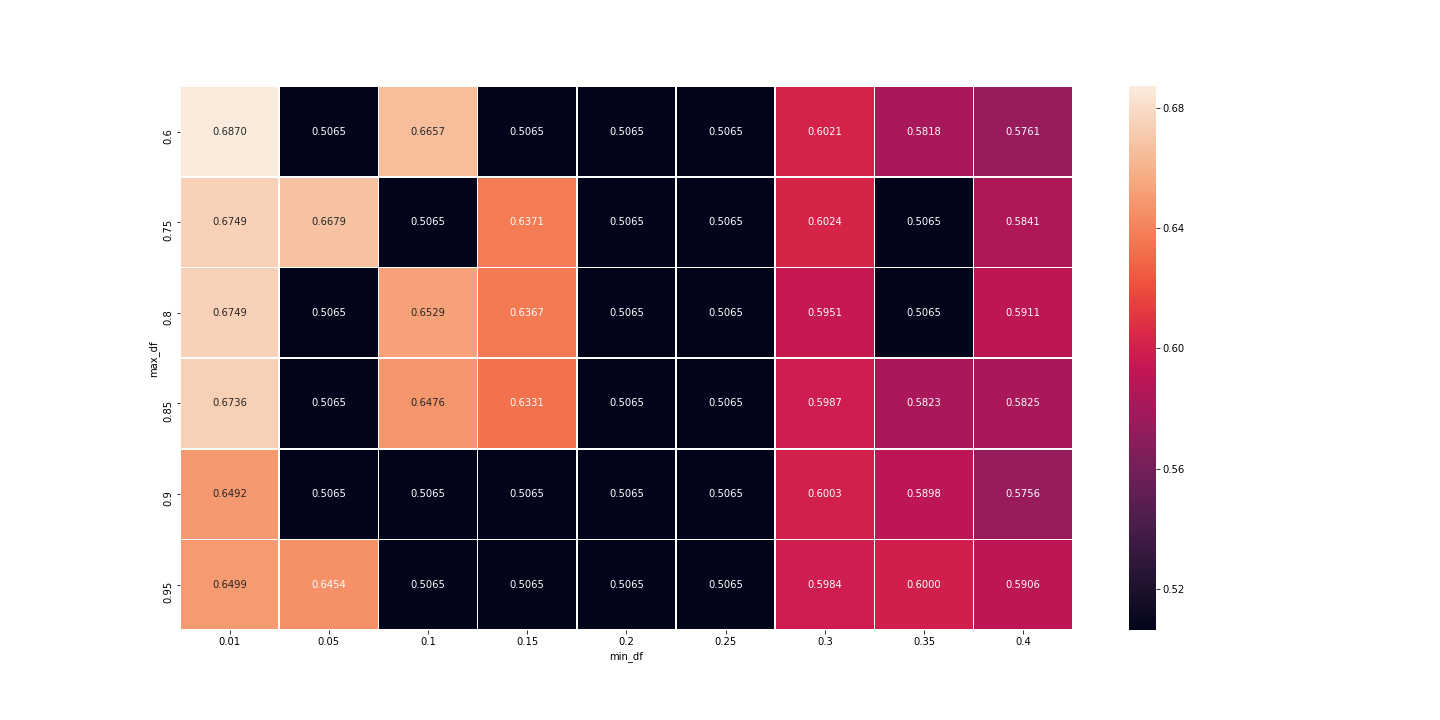
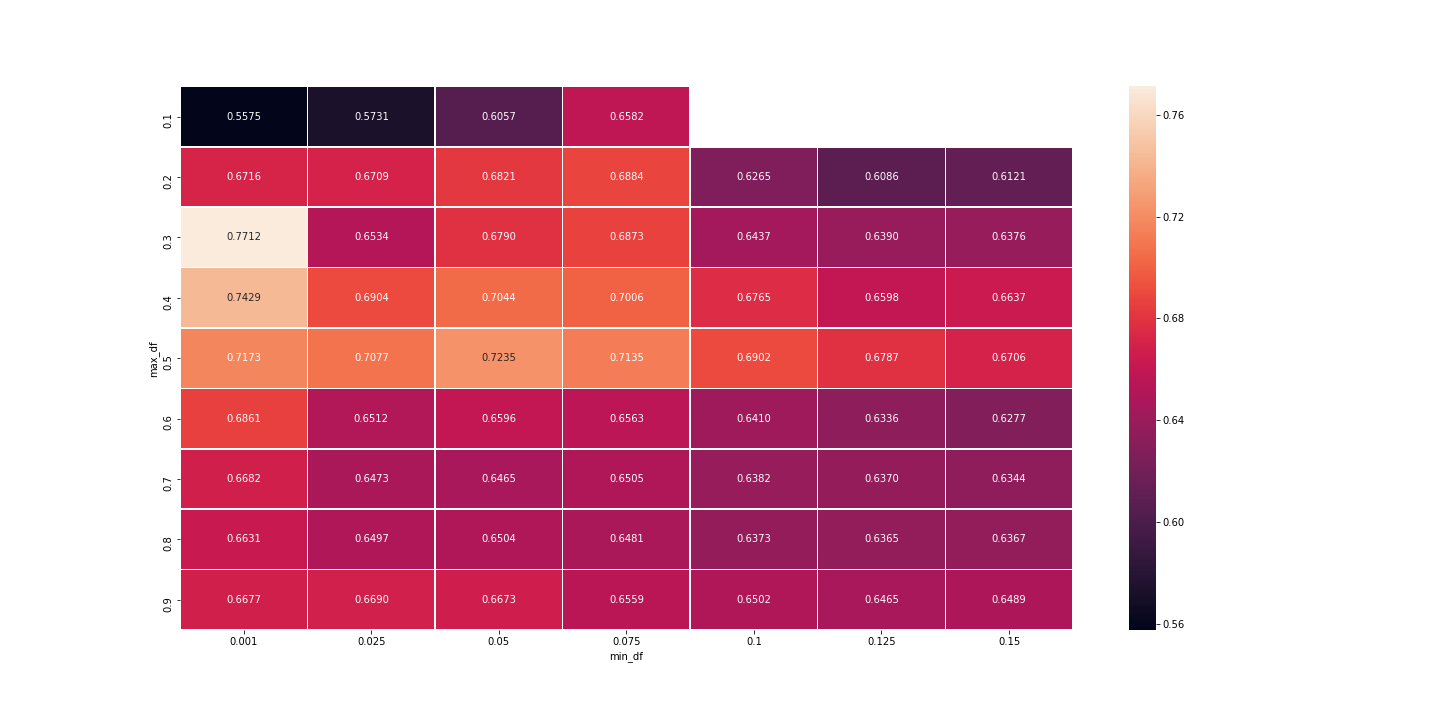
Experimentacion minmaxdf

diff --git a/notebooks/optimizar-max-df-min-df.py b/notebooks/optimizar-max-df-min-df.py
@@ -2,9 +2,7 @@
 
 '''
 La idea es mostrar para un par de valores `alpha`, `k`, como varía el
-_accuracy_ variando los hiperparametros `max_df`, `min_df`. La **hipotesis** es
-que no mejora el accuracy, pues PCA se encarga de eliminar la información
-innecesaria.
+_accuracy_ variando los hiperparametros `max_df`, `min_df`.
 '''
 
 import time
@@ -23,9 +21,9 @@ import sentiment
 # ----------------------------------------------------------------------------
 
 # Variar las combinaciones de hiperparametros acá:
-ALPHA = 150
-K = 140
-max_dfs = [0.4, 0.5, 0.6, 0.7, 0.8, 0.9]
+#  ALPHA = 150
+K = 1800
+max_dfs = [.1, .2, .3, 0.4, 0.5, 0.6, 0.7, 0.8, 0.9]
 min_dfs = [0.001, 0.025, 0.05, 0.075, 0.1, 0.125, 0.15]
 
 # Configuración del logging
@@ -68,7 +66,7 @@ def read_data(path):
     text_data = text_train, label_train, text_test, label_test
     return text_data
 
-def vectorizer(text_data, max_df, min_df):
+def vectorizar(text_data, max_df, min_df):
     '''
     Vectorizador para los datos. En este script es importante.
     '''
@@ -99,19 +97,14 @@ def benchmark(text_data, max_df, min_df):
     time_begin = time.perf_counter()
 
     log.info('benchmark: (max_df, min_df) = (%.2f, %.2f)', max_df, min_df)
-    X_train, y_train, X_test, y_test = vectorizer(text_data, max_df, min_df)
-
-    log.debug(f'fit_transform de PCA.')
-    pca = sentiment.PCA(ALPHA, 1e-5)
-    X_train_pca = pca.fit_transform(X_train)
+    X_train, y_train, X_test, y_test = vectorizar(text_data, max_df, min_df)
 
     log.debug('Entrenando el clasificador KNN')
     knn_clf = sentiment.KNNClassifier(K)
-    knn_clf.fit(X_train_pca, y_train)
+    knn_clf.fit(X_train, y_train)
 
     log.debug('Clasificando...')
-    X_test_pca = pca.transform(X_test)
-    y_pred = knn_clf.predict(X_test_pca)
+    y_pred = knn_clf.predict(X_test)
 
     log.debug('Calculando accuracy...')
     acc = accuracy_score(y_pred, y_test)
@@ -137,6 +130,9 @@ if __name__ == '__main__':
         f.flush()
 
         for max_df, min_df in itertools.product(max_dfs, min_dfs):
+
+            if max_df <= min_df: continue
+
             acc, time_delta = benchmark(text_data, max_df, min_df)
             writer.writerow({'max_df': max_df,
                              'min_df': min_df,
